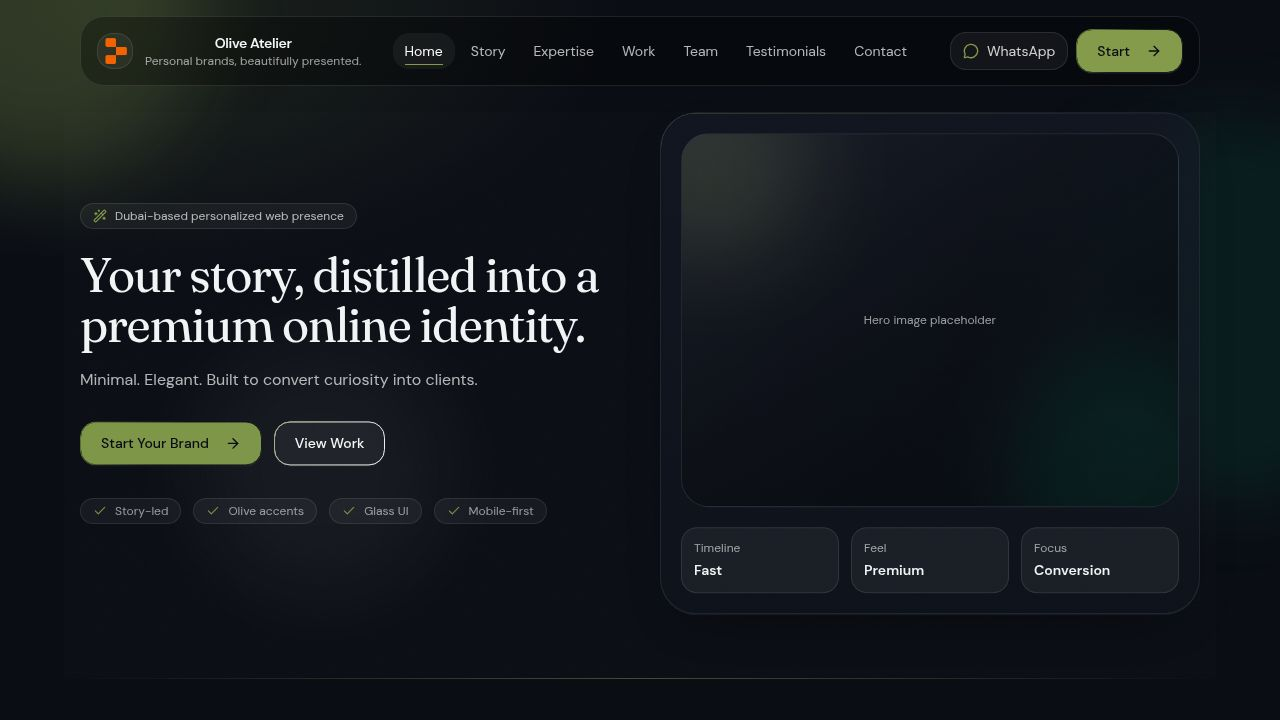
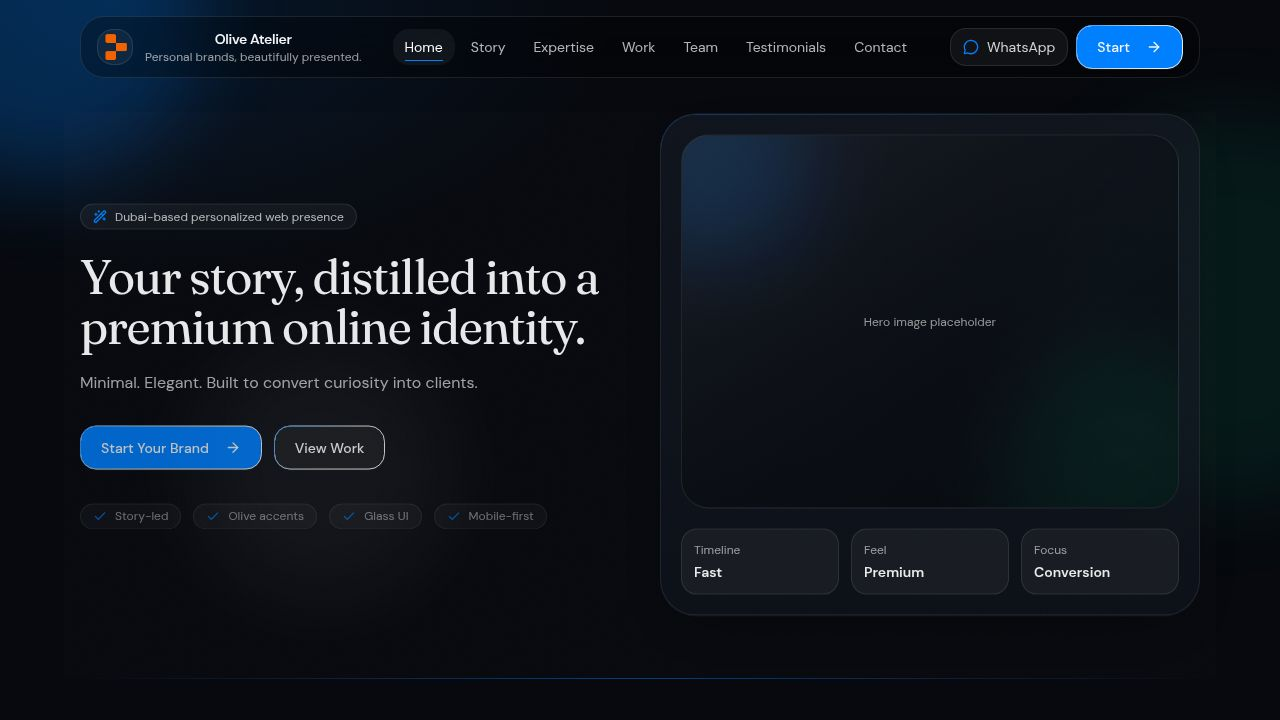
Update site's color scheme and navigation bar for a refreshed look
Adjusted CSS variables for a new "Electric Blue" theme, updated navigation link labels, and modified the navbar padding for a slimmer appearance.

Replit-Commit-Author: Agent
Replit-Commit-Session-Id: b92eb260-1054-4e28-8016-c478808483bf
Replit-Commit-Checkpoint-Type: full_checkpoint
Replit-Commit-Event-Id: d3855a8b-50fb-46d5-9e3d-83f4ff44ab4b
Replit-Commit-Screenshot-Url: https://storage.googleapis.com/screenshot-production-us-central1/c9a858e2-0668-4b9b-89a1-210d2a3efd61/b92eb260-1054-4e28-8016-c478808483bf/zcJTqgS
Replit-Helium-Checkpoint-Created: true

diff --git a/client/src/pages/home.tsx b/client/src/pages/home.tsx
@@ -235,7 +235,7 @@ function Navbar({ activeId }: { activeId: string }) {
           className={cn(
             "mt-4 rounded-3xl border border-white/10 bg-black/30 backdrop-blur-xl",
             "transition-all",
-            scrolled ? "py-2 shadow-lg" : "py-3",
+            scrolled ? "py-1.5 shadow-lg" : "py-2",
           )}
           data-testid="nav-bar"
         >
@@ -1258,7 +1258,7 @@ export default function Home() {
   const active = useActiveSection(ids);
 
   return (
-    <div className="relative min-h-screen bg-[radial-gradient(900px_500px_at_10%_0%,hsl(var(--primary)/0.16),transparent_55%),radial-gradient(800px_520px_at_90%_20%,hsl(160_84%_35%/0.10),transparent_60%),radial-gradient(900px_700px_at_50%_100%,hsl(222_30%_12%/1),hsl(var(--background)))]">
+    <div className="relative min-h-screen bg-[radial-gradient(900px_500px_at_10%_0%,hsl(var(--primary)/0.12),transparent_55%),radial-gradient(800px_520px_at_90%_20%,hsl(210_100%_50%/0.08),transparent_60%),radial-gradient(900px_700px_at_50%_100%,hsl(222_30%_8%/1),hsl(var(--background)))]">
       <TopProgress />
       <CursorGlow />
       <Navbar activeId={active} />

diff --git a/client/src/index.css b/client/src/index.css
@@ -52,33 +52,33 @@
   --radius: 1rem;
 
   /* Dark-first palette */
-  --background: 222 33% 6%;
+  --background: 222 33% 4%;
   --foreground: 210 20% 96%;
 
-  --card: 222 30% 9%;
+  --card: 222 30% 7%;
   --card-foreground: 210 20% 96%;
 
-  --popover: 222 30% 9%;
+  --popover: 222 30% 7%;
   --popover-foreground: 210 20% 96%;
 
-  --muted: 223 22% 14%;
+  --muted: 223 22% 10%;
   --muted-foreground: 215 14% 72%;
 
-  --border: 220 18% 18%;
-  --card-border: 220 18% 16%;
-  --input: 220 18% 22%;
+  --border: 220 18% 14%;
+  --card-border: 220 18% 12%;
+  --input: 220 18% 18%;
 
-  /* Olive accent system */
-  --primary: 78 35% 45%;
-  --primary-foreground: 222 33% 6%;
+  /* Electric Blue accent system */
+  --primary: 210 100% 50%;
+  --primary-foreground: 210 20% 96%;
 
-  --secondary: 223 22% 14%;
+  --secondary: 223 22% 12%;
   --secondary-foreground: 210 20% 96%;
 
-  --accent: 84 32% 22%;
+  --accent: 210 100% 15%;
   --accent-foreground: 210 20% 96%;
 
-  --ring: 78 35% 45%;
+  --ring: 210 100% 50%;
 
   --destructive: 0 72% 55%;
   --destructive-foreground: 0 0% 100%;

diff --git a/client/src/config.js b/client/src/config.js
@@ -21,11 +21,11 @@ export const siteConfig = {
 };
 
 export const navLinks = [
-  { id: "home", label: "Home" },
-  { id: "story", label: "Story" },
-  { id: "expertise", label: "Expertise" },
-  { id: "work", label: "Work" },
-  { id: "team", label: "Team" },
-  { id: "testimonials", label: "Testimonials" },
-  { id: "contact", label: "Contact" },
+  { id: "home", label: "Intro" },
+  { id: "story", label: "The Vision" },
+  { id: "expertise", label: "Capabilities" },
+  { id: "work", label: "Creations" },
+  { id: "team", label: "Architects" },
+  { id: "testimonials", label: "Trust" },
+  { id: "contact", label: "Collaborate" },
 ];
